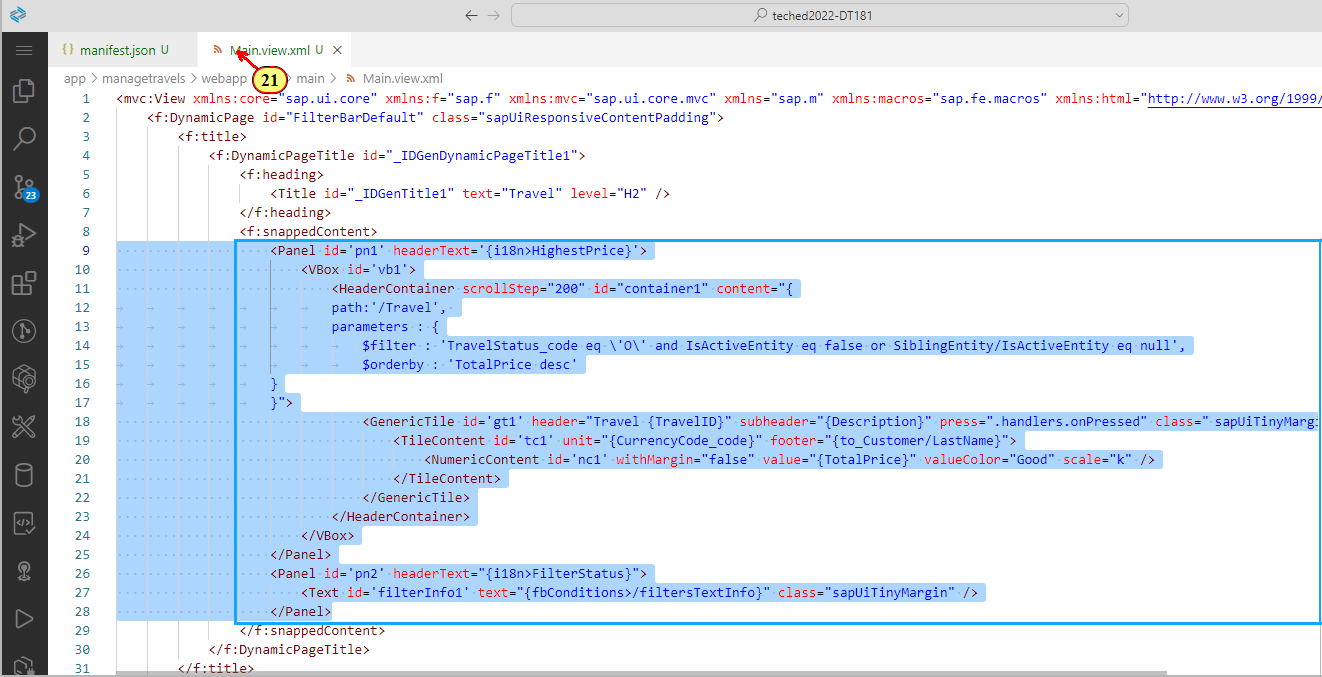
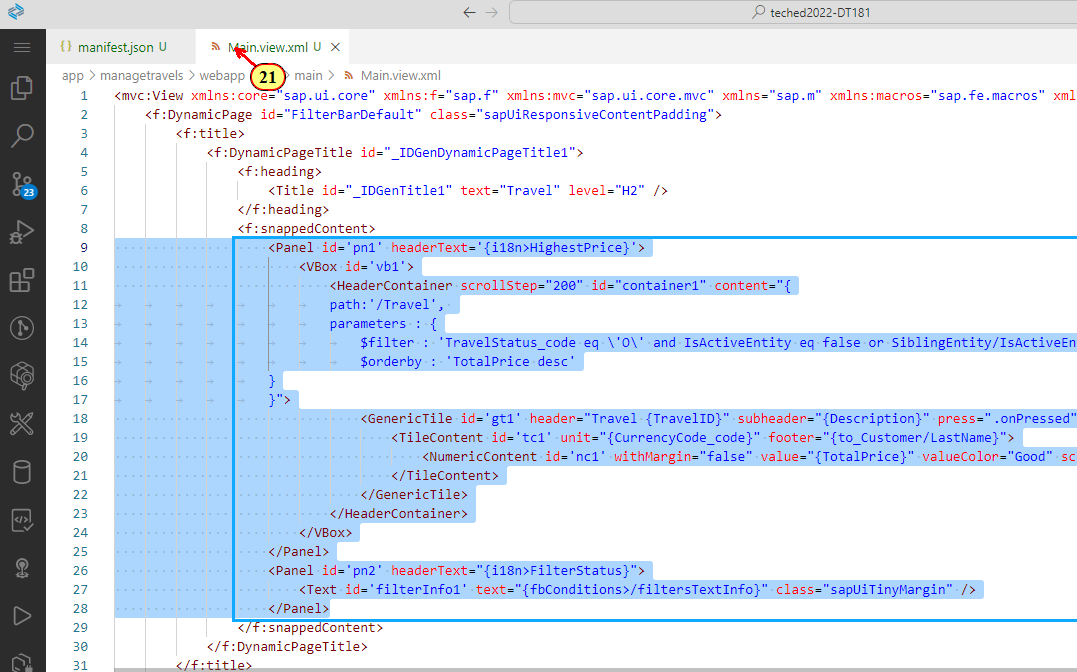
readme updated

diff --git a/app/test-resources/ext/view/Main.controller.js b/app/test-resources/ext/view/Main.controller.js
@@ -45,17 +45,15 @@ sap.ui.define(
             //  onExit: function() {
             //
             //  },
-            handlers: {
-				onFiltersChanged: function (oEvent) {
-					var oSource = oEvent.getSource();
-					var mFBConditions = oSource.getModel("fbConditions");
-					mFBConditions.setProperty("/filtersTextInfo", oSource.getActiveFiltersText());
-				},
-                onPressed: function (oEvent) {
-                    var oContext = oEvent.getSource().getBindingContext();
-                    this.routing.navigate(oContext);
-                }              
-			}
+            onFiltersChanged: function (oEvent) {
+                var oSource = oEvent.getSource();
+                var mFBConditions = oSource.getModel("fbConditions");
+                mFBConditions.setProperty("/filtersTextInfo", oSource.getActiveFiltersText());
+            },
+            onPressed: function (oEvent) {
+                var oContext = oEvent.getSource().getBindingContext();
+                this.routing.navigate(oContext);
+            }              
         });
     }
 );

diff --git a/exercises/ex3/README.md b/exercises/ex3/README.md
@@ -51,7 +51,7 @@ xmlns:f="sap.f"
                     <macros:FilterBar 
                         metaPath="@com.sap.vocabularies.UI.v1.SelectionFields" 
                         id="FilterBar" 
-                        filterChanged=".handlers.onFiltersChanged" />
+                        filterChanged=".onFiltersChanged" />
                 </VBox>
             </f:DynamicPageHeader>
         </f:header>
@@ -168,7 +168,7 @@ FilterStatus=Table Filter Status
                 $orderby : 'TotalPrice desc'
             }
         }">
-            <GenericTile id='gt1' header="Travel {TravelID}" subheader="{Description}" press=".handlers.onPressed" class="sapUiTinyMarginTop tileLayout">
+            <GenericTile id='gt1' header="Travel {TravelID}" subheader="{Description}" press=".onPressed" class="sapUiTinyMarginTop tileLayout">
                 <TileContent id='tc1' unit="{CurrencyCode_code}" footer="{to_Customer/LastName}">
                     <NumericContent id='nc1' withMargin="false" value="{TotalPrice}" valueColor="Good" scale="k" />
                 </TileContent>
